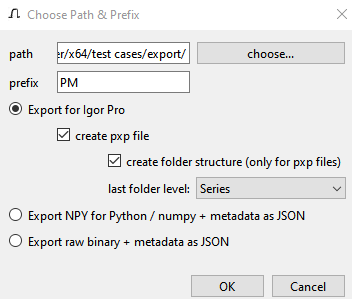
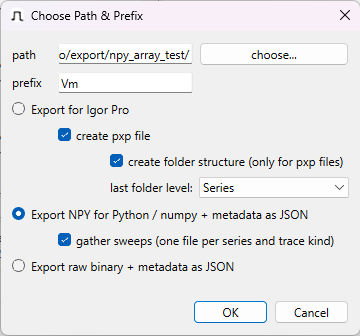
update docs to include new export method

diff --git a/doc/usage/menues.rst b/doc/usage/menues.rst
@@ -172,7 +172,7 @@ The Dialogs
 
 .. _export-dlg-label:
 
-Igor Export: 'Choose Path & Prefix' Dialog
+Export data: 'Choose Path & Prefix' Dialog
 ******************************************
 
 .. image::  Screenshot_exportDlg.png
@@ -186,7 +186,7 @@ General options
 
 	* *'path'* If multiple files are exported, this is the path they will be saved to. Use button *'choose...'* to call up a file dialog to choose the path (or enter a valid path manually).
 	
-	* *'prefix'* Exported waves will be prefixed with this text. If individual files are exported, they will have this prefix, too (since they will be named after the wave).
+	* *'prefix'* Exported waves will be prefixed with this text. If individual files are exported, they will have this prefix, too.
 
 Selection of export method
 --------------------------
@@ -197,22 +197,38 @@ of parameters to be exported as metadata.
 Export for Igor Pro
 +++++++++++++++++++
 
-	* Checkbox *'create pxp file'*
-		
-		All waves will be exported into a single packaged experiment file (:file:`pxp`). After clicking *'OK'*, a file dialog will show up that allows you to select a filename for the file to be created.
-
-	* Checkbox *'create folder structure'*
+* Checkbox *'create pxp file'*
 	
-		If you export as a :file:`pxp` file, select this to create datafolders within the :file:`pxp` file that match the tree structure. You can choose if the grouping level for traces should be *group* or *series*.
+	All waves will be exported into a single packaged experiment file (:file:`pxp`). After clicking *'OK'*, a file dialog will show up that allows you to
+	select a filename for the file to be created.
+
+* Checkbox *'create folder structure'*
+
+	If you export as a :file:`pxp` file, select this to create datafolders within the :file:`pxp`
+	file that match the tree structure. You can choose if the grouping level for traces should be *group* or *series*.
 
 Metadata will be included as wavenotes.
 
 Export NPY for Python / numpy + metadata as JSON
 ++++++++++++++++++++++++++++++++++++++++++++++++
 
-Each trace will be export as a :file:`.npy` file that can be read via ``numpy.load(<filename>)``. Metadata for
-each trace will be export in JSON format (:file:`.json`).
+* Checkbox *'gather sweeps'*
 
+	If *gather sweeps* **is not** selected, each trace will be exported as a :file:`.npy` file.
+	Metadata for each trace will be export in JSON format (:file:`.json`).
+
+	If *gather sweeps* **is** selected, for each *series* that is about to be exported,
+	all traces that are a (grand-)child of this series and that share the same trace ID
+	will be gathered in a single :file:`.npy` file as a 2D array. The first dimension
+	of this array is the trace index, the second dimension the *time* (or *x*) dimension of the trace.
+	This file will be accompanied by a JSON file
+	containing the metadata for all sweeps/traces in the :file:`.npy` file.
+
+	If for example a series has 10 sweeps that are to be exported and each
+	*sweep* has a *Vmon* and an *Imon* trace, for this series two
+	files will be created. One contains the 10 *Vmon* traces, the other contains the 10 *Imon* traces.
+
+:file:`.npy` files can be read via ``numpy.load(<filename>)``.
 Demo :program:`python` code showing how to use these files can be found in the Git repository
 (folder `demo <https://github.com/ChrisHal/PMbrowser/tree/master/demo>`_).
 

diff --git a/doc/introduction.rst b/doc/introduction.rst
@@ -1,7 +1,7 @@
 .. _intro-label:
 
-What can :program:`PMbrowser` do?
----------------------------------
+What can :program:`PMbrowser` do for you?
+-----------------------------------------
 
 It can open bundled data files (:file:`.dat`) created by :program:`PATCHMASTER` or
 :program:`PATCHMASTER NEXT`.
